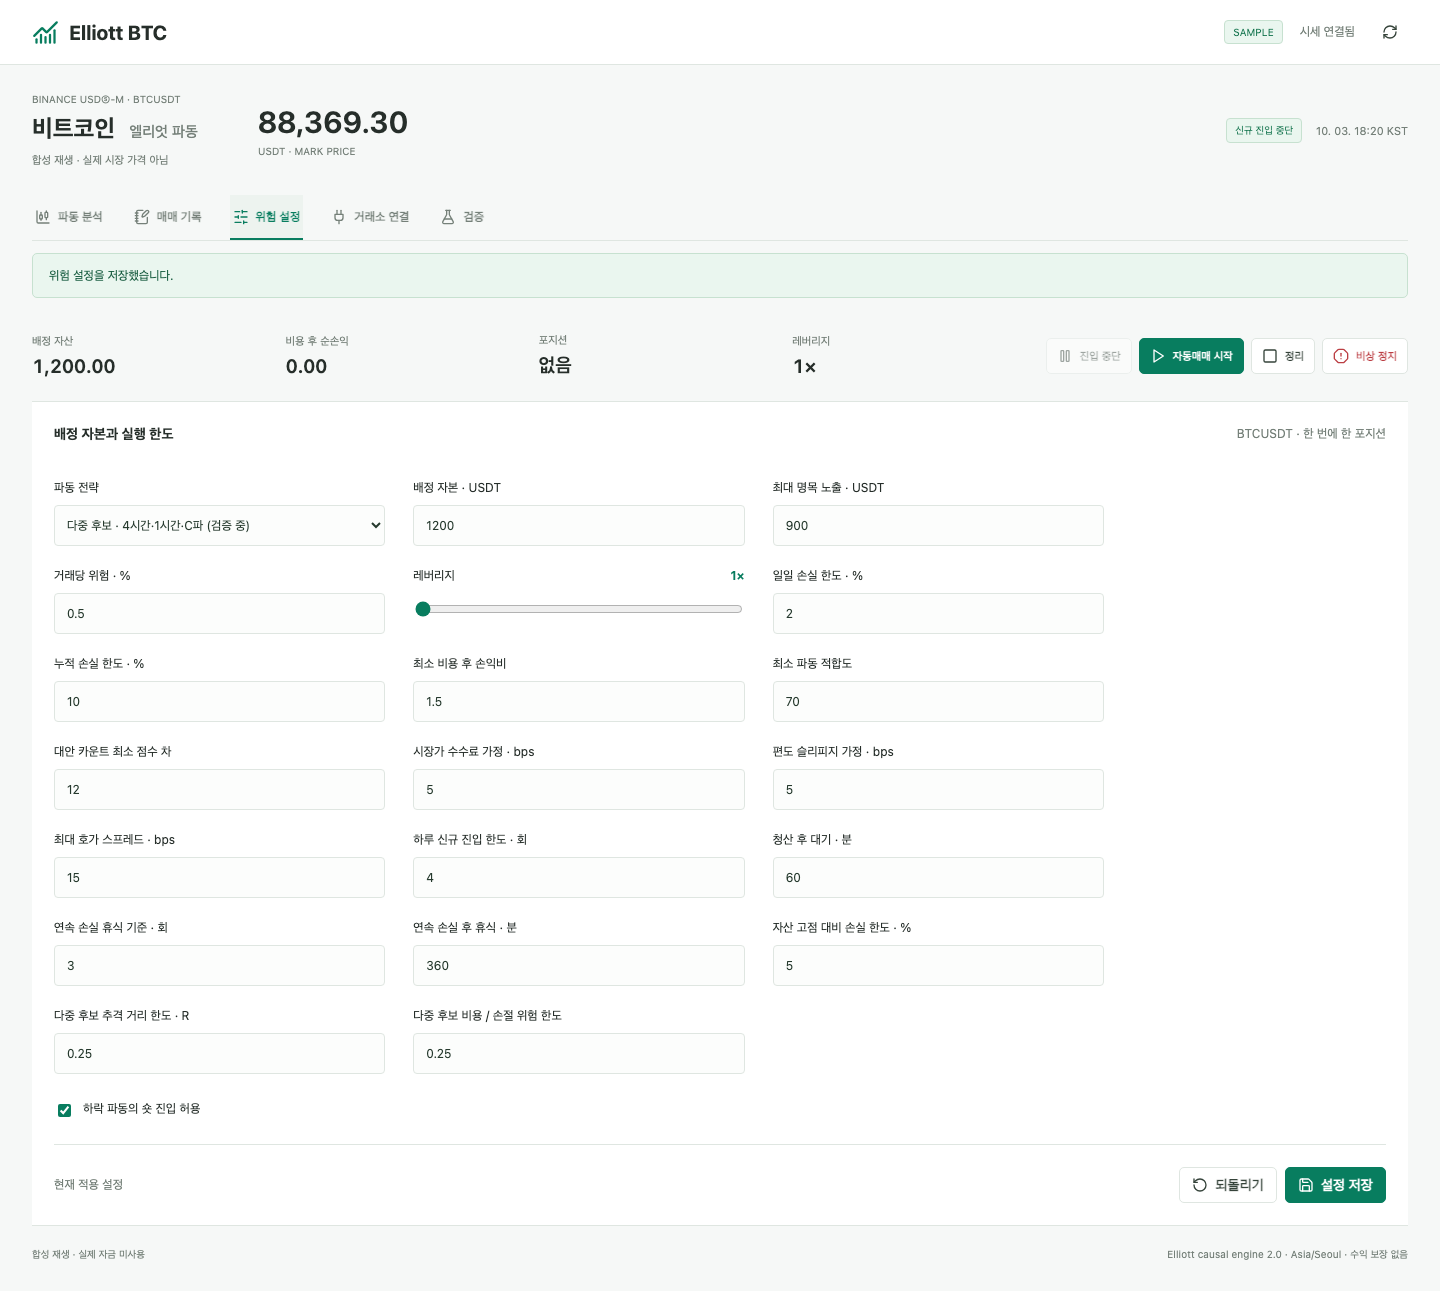
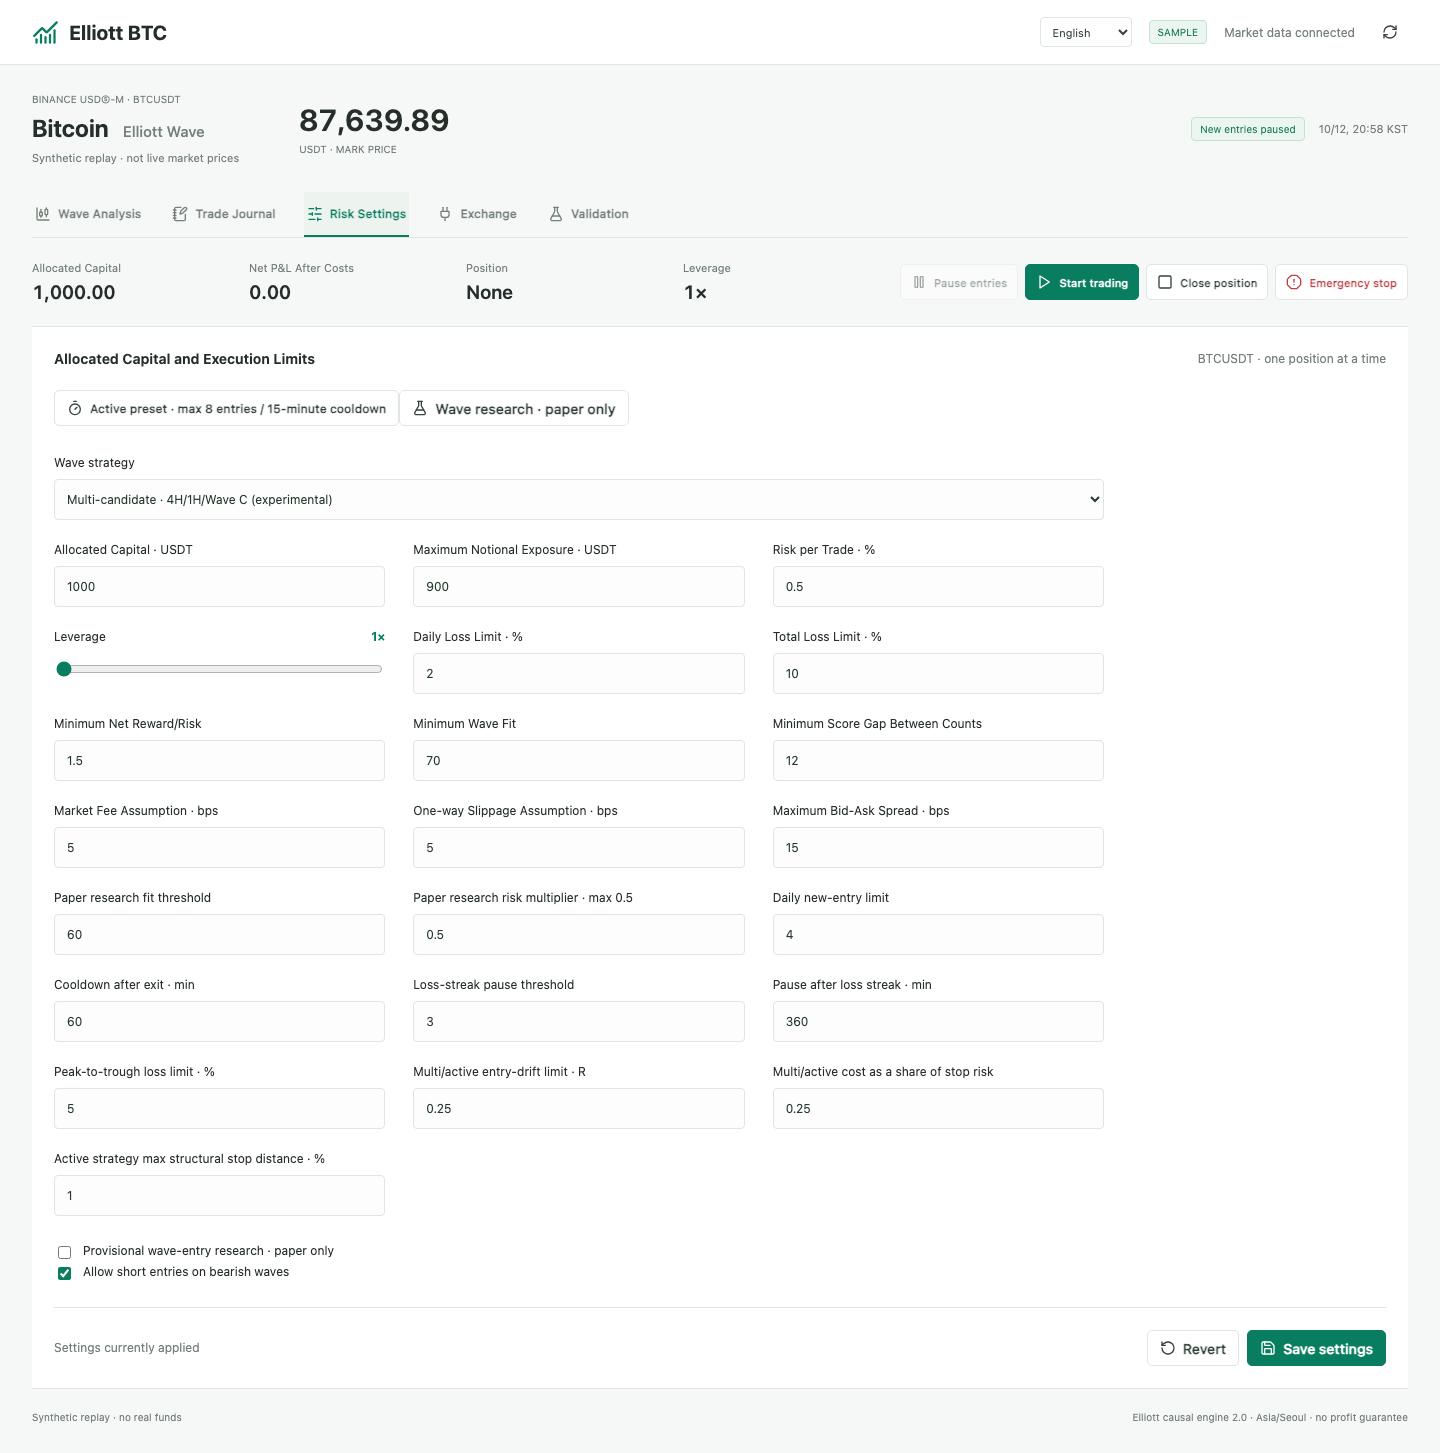
Refresh English Elliott Wave screenshots

diff --git a/elliottbot/static/i18n.js b/elliottbot/static/i18n.js
@@ -133,6 +133,16 @@
     ["방향 미선택 · 자동 추정 안 함", "No side selected · not inferred automatically"], ["내 체결 포지션", "My filled position"], ["내 진입 가정", "My planned entry"],
     ["입력한 체결 포지션", "Entered filled position"], ["진입 전 가정", "Pre-entry plan"], ["체결가", "Fill price"], ["진입가", "Entry price"],
     ["파동 예상 LONG(롱)", "Wave projection: LONG"], ["파동 예상 SHORT(숏)", "Wave projection: SHORT"], ["예상 방향 미확정", "Projected side unconfirmed"],
+    ["가정 진입", "Planned entry"],
+    ["상위 방향 거부권", "Higher-timeframe direction veto"], ["방향 정합성", "Directional alignment"],
+    ["3파·5파 진입 구조", "Wave 3/5 entry structure"], ["종가 돌파 확인", "Closing breakout confirmation"],
+    ["참고 전용 · 주문 판단 제외", "Reference only · excluded from order decisions"],
+    ["상위 파동 맥락", "Higher-degree wave context"], ["4시간봉 상위 맥락", "4H higher-timeframe context"],
+    ["진입 후보 / 1시간봉 상위 맥락", "Entry candidate / 1H higher-timeframe context"],
+    ["진입 후보 / 4시간봉 돌파 확인", "Entry candidate / 4H breakout confirmation"],
+    ["1시간봉 내부 구조·돌파 확인; 독립 주문 없음", "1H internal structure / breakout confirmation; no independent orders"],
+    ["30분봉 내부 구조·돌파 확인; 독립 주문 없음", "30m internal structure / breakout confirmation; no independent orders"],
+    ["진입 후보 / 1시간봉 돌파 확인", "Entry candidate / 1H breakout confirmation"],
     ["손절 거리만 본 하한", "Lower bound from stop distance only"], ["손익비만 본 상한", "Upper bound from reward/risk only"],
     ["손익비만 본 하한", "Lower bound from reward/risk only"], ["손절 거리만 본 상한", "Upper bound from stop distance only"],
     ["손익비 참고 구간 없음", "No entry range meets the reward/risk reference"], ["카운트 무효화 · 손절 확대 지시 아님", "Count invalidation · not an instruction to widen the stop"],

diff --git a/elliottbot/static/manual.js b/elliottbot/static/manual.js
@@ -176,8 +176,8 @@ function renderManualReview(candidate,data,stale) {
 function manualChartLevels() {
   const c=visibleCandidate(), p=manualReview;
   if(!$("show-manual-plan").checked || !c || !p?.showLines || p.key!==`${latest.mode}:${latest.sample}:${activeTf}:${c.id}`)return [];
-  return [{name:`${p.direction>0?"LONG":"SHORT"} ${p.filled?"입력 체결가":"가정 진입"}`,value:p.entry,color:"#276caa",decimals:2},
-    {name:"수동 검토 손절",value:p.stop,color:"#b55965",decimals:2},
-    ...p.targets.map(t=>({name:`검토 ${t.label}${t.primary?" · 기본":""}${t.touchedAt?" · 기접촉":""}`,
+  return [{name:`${p.direction>0?"LONG":"SHORT"} ${t(p.filled?"체결가":"가정 진입")}`,value:p.entry,color:"#276caa",decimals:2},
+    {name:t("수동 검토 손절"),value:p.stop,color:"#b55965",decimals:2},
+    ...p.targets.map(t=>({name:`${window.t("검토")} ${t.label}${t.primary?` · ${window.t("기본")}`:""}${t.touchedAt?` · ${window.t("기접촉")}`:""}`,
       value:t.price,color:t.pricePass?"#267c69":"#7c8581",decimals:2}))];
 }

diff --git a/elliottbot/static/chart.js b/elliottbot/static/chart.js
@@ -110,7 +110,7 @@ function draw() {
   const stale = age != null && age>45;
   const warning = data.warning || (stale ? `차트 수신 지연 · 마지막 수신 ${chartStamp(data.fetched_at*1000)}` : "");
   $("chart-warning").hidden=!warning;$("chart-warning").textContent=warning;
-  $("chart-role").textContent = `${data.role || ""}${data.source ? ` · ${data.source}` : ""}`;
+  $("chart-role").textContent = `${t(data.role || "")}${data.source ? ` · ${t(data.source)}` : ""}`;
   $("chart-start").textContent=bars.length?new Date(bars[0].time).toLocaleDateString(window.elliottLocaleTag(),{timeZone:"Asia/Seoul"}):"—";
   $("chart-end").textContent=bars.length?new Date(bars.at(-1).time).toLocaleDateString(window.elliottLocaleTag(),{timeZone:"Asia/Seoul"}):"—";
   if(!bars.length){c.fillStyle="#718078";c.font="12px sans-serif";c.fillText(t("표시할 차트 데이터 없음"),12,h/2);$("chart-ohlc").textContent="OHLC 없음";$("bar-count").textContent="0봉";$("chart-caption").textContent="분석 대기";return;}

diff --git a/docs/README.ko.md b/docs/README.ko.md
@@ -16,7 +16,9 @@
 <p align="center">
   <img src="images/analysis-sample.png" alt="여러 시간봉 후보와 엘리엇 파동 차트가 표시된 분석 화면" width="100%" />
 </p>
-<p align="center"><sub>데스크톱 화면 · 합성 샘플 시세 · 거래소 계정 미연결</sub></p>
+<p align="center"><sub>영문 화면 · 상단 Language 메뉴에서 한국어 선택 가능 · 합성 샘플 시세 · 거래소 계정 미연결</sub></p>
+
+웹 앱은 영어가 기본 언어이며, 상단 **Language** 메뉴에서 **한국어**로 전환할 수 있습니다. 선택한 언어는 현재 브라우저에 저장됩니다.
 
 > 엘리엇 파동 카운트는 해석이지 확률이 아닙니다. 적합도 점수는 규칙에 맞는 구조의 순위를 나타내며 승률이 아닙니다. 높은 예측 정확도나 수익을 보장한다고 주장하지 않습니다.
 
@@ -31,15 +33,15 @@
 
 ## 화면
 
-아래 이미지는 실제 프로그램에서 캡처했습니다. 4시간봉·30분봉은 모의거래 화면이고, 수동 검토선과 위험 설정은 로컬 샘플 데이터 화면입니다.
+아래 이미지는 실제 프로그램의 합성 샘플 모드에서 캡처했습니다. 거래소 계정 연결이나 실주문은 포함하지 않습니다.
 
 <table>
   <tr>
-    <td width="50%"><a href="images/waves-4h-paper.png"><img src="images/waves-4h-chart.png" alt="확정 피벗과 대안 카운트가 표시된 4시간봉 엘리엇 파동 차트" /></a><br /><sub>4시간봉 · 스윙 구조와 대안 카운트</sub></td>
-    <td width="50%"><a href="images/waves-30m-paper.png"><img src="images/waves-30m-chart.png" alt="ABC 조정 카운트와 피보나치 기준이 표시된 30분봉 차트" /></a><br /><sub>30분봉 · ABC 후보와 피보나치 참고선</sub></td>
+    <td width="50%"><a href="images/waves-4h-paper.png"><img src="images/waves-4h-chart.png" alt="확정 피벗, 손절, 목표와 무효화가 표시된 4시간봉 엘리엇 3파 후보" /></a><br /><sub>4시간봉 · 확정 0~2번 피벗과 주요 가격선이 표시된 3파 후보</sub></td>
+    <td width="50%"><a href="images/waves-30m-paper.png"><img src="images/waves-30m-chart.png" alt="확정 피벗과 주요 가격선이 표시된 30분봉 엘리엇 ABC 조정 후보" /></a><br /><sub>30분봉 · 확정 0·A·B·C 피벗이 표시된 지그재그 ABC 완료 후보</sub></td>
   </tr>
   <tr>
-    <td><img src="images/manual-levels.png" alt="가정 진입가, 손절, 무효화, 피보나치 목표선이 표시된 수동 검토 차트" /><br /><sub>수동 검토 · 가정 진입가, 손절, 무효화, 목표 참고선</sub></td>
+    <td><img src="images/manual-levels.png" alt="가정 진입가, 손절, 무효화, 목표선이 표시된 수동 검토 차트" /><br /><sub>수동 검토 · 가정 진입가, 손절, 무효화, 목표 참고선</sub></td>
     <td><img src="images/risk-settings-sample.png" alt="자본, 레버리지, 거래당 위험, 일일 한도 설정 화면" /><br /><sub>위험 설정 · 배정 자본, 레버리지, 손실 한도</sub></td>
   </tr>
 </table>

diff --git a/README.md b/README.md
@@ -16,7 +16,9 @@
 <p align="center">
   <img src="docs/images/analysis-sample.png" alt="Elliott BTC analysis dashboard with multi-timeframe candidates and a labeled wave chart" width="100%" />
 </p>
-<p align="center"><sub>Desktop interface · synthetic sample market data · no exchange account connected</sub></p>
+<p align="center"><sub>English interface · choose 한국어 in the header to switch · synthetic sample data · no exchange account connected</sub></p>
+
+The interface defaults to English. Choose **한국어** from the **Language** menu in the header to switch; the selection is remembered in this browser.
 
 > Elliott counts are interpretations, not probabilities. The fit score ranks rule-compatible structures; it is not a win rate. This project makes no claim of high predictive accuracy or guaranteed returns.
 
@@ -31,15 +33,15 @@
 
 ## Screenshots
 
-The screenshots below come from the running application. The 4H and 30m views are paper-mode captures; the manual chart and settings views use local sample data.
+The screenshots below come from the running application in synthetic sample mode. No exchange account or live orders are involved.
 
 <table>
   <tr>
-    <td width="50%"><a href="docs/images/waves-4h-paper.png"><img src="docs/images/waves-4h-chart.png" alt="Four-hour Elliott wave chart with confirmed pivots and alternative counts" /></a><br /><sub>4H · swing structure and alternative count</sub></td>
-    <td width="50%"><a href="docs/images/waves-30m-paper.png"><img src="docs/images/waves-30m-chart.png" alt="Thirty-minute Elliott wave chart with an ABC correction count and Fibonacci levels" /></a><br /><sub>30m · ABC candidate and Fibonacci references</sub></td>
+    <td width="50%"><a href="docs/images/waves-4h-paper.png"><img src="docs/images/waves-4h-chart.png" alt="Four-hour Elliott Wave 3 candidate with confirmed pivots, stop, target, and invalidation" /></a><br /><sub>4H · Wave 3 candidate, confirmed 0–2 pivots, and key price levels</sub></td>
+    <td width="50%"><a href="docs/images/waves-30m-paper.png"><img src="docs/images/waves-30m-chart.png" alt="Thirty-minute Elliott Wave ABC correction candidate with confirmed pivots and key price levels" /></a><br /><sub>30m · Zigzag ABC completion candidate with confirmed 0/A/B/C pivots</sub></td>
   </tr>
   <tr>
-    <td><img src="docs/images/manual-levels.png" alt="Manual chart review with entry, stop, invalidation, and Fibonacci target lines" /><br /><sub>Manual review · hypothetical entry, stop, invalidation, and target references</sub></td>
+    <td><img src="docs/images/manual-levels.png" alt="Manual chart review with hypothetical entry, stop, invalidation, and target levels" /><br /><sub>Manual review · hypothetical entry, stop, invalidation, and target references</sub></td>
     <td><img src="docs/images/risk-settings-sample.png" alt="Risk settings for capital, leverage, trade risk, and daily limits" /><br /><sub>Risk controls · capital, leverage, and loss limits</sub></td>
   </tr>
 </table>
